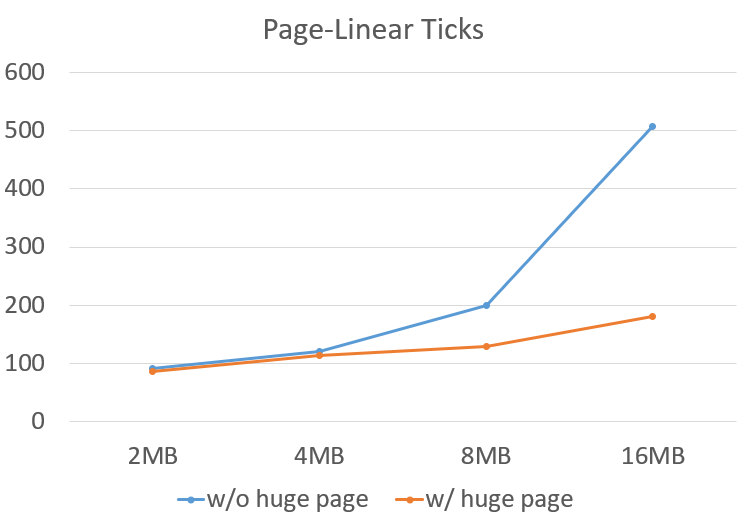
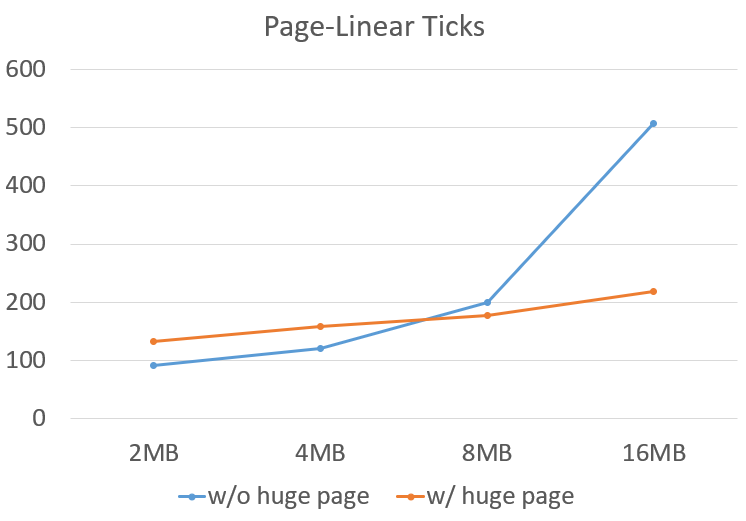
fix process_execute and vpage_info so that huge pages are lazily loaded

diff --git a/pintos/src/vm/vpage.c b/pintos/src/vm/vpage.c
@@ -83,25 +83,54 @@ vpage_info_inmem_to_swap(struct vpage_info *vpi) {
 static void
 vpage_info_lazy_to_inmem(struct vpage_info *vpi) {
     ASSERT(vpi->status == VPAGE_LAZY);
-    void *paddr;
-    if ((paddr = palloc_get_page(PAL_USER|PAL_ZERO)) == NULL) {
-        paddr = evict_page();
-    }
-    if (vpi->backend.lazy.file) {
-        lock_acquire(&filesys_lock);
-        file_read_at(vpi->backend.lazy.file, paddr, vpi->backend.lazy.length, vpi->backend.lazy.offset);
-        memset((char *)paddr + vpi->backend.lazy.length, 0, PGSIZE - vpi->backend.lazy.length);
-        file_close(vpi->backend.lazy.file);
-        lock_release(&filesys_lock);
+    bool huge;
+    huge = vpi->backend.lazy.huge;
+    if (!huge) {
+        void *paddr;
+        if ((paddr = palloc_get_page(PAL_USER|PAL_ZERO)) == NULL) {
+            paddr = evict_page();
+        }
+        if (vpi->backend.lazy.file) {
+            lock_acquire(&filesys_lock);
+            file_read_at(vpi->backend.lazy.file, paddr, vpi->backend.lazy.length, vpi->backend.lazy.offset);
+            memset((char *)paddr + vpi->backend.lazy.length, 0, PGSIZE - vpi->backend.lazy.length);
+            file_close(vpi->backend.lazy.file);
+            lock_release(&filesys_lock);
+        }
+        else {
+            memset(paddr, 0, PGSIZE);
+        }
+        vpi->backend.inmem.paddr = paddr;
+        vpi->backend.inmem.pagedir = thread_current()->pagedir;
+        vpi->backend.inmem.last_use = timer_ticks();
+        vpi->backend.inmem.huge = false;
+        vpi->status = VPAGE_INMEM;
+        pagedir_set_page(vpi->backend.inmem.pagedir, vpi->uaddr, paddr, vpi->writable, false);
     }
     else {
-        memset(paddr, 0, PGSIZE);
+      /* Add the page to the process's address space. */
+        void *paddr;
+        if ((paddr = palloc_get_multiple_aligned (PAL_USER, HPGSIZE/PGSIZE)) == NULL) {
+            PANIC("Could not lazy-load huge page");
+        }
+        if (vpi->backend.lazy.file) {
+            lock_acquire(&filesys_lock);
+            file_read_at(vpi->backend.lazy.file, paddr, vpi->backend.lazy.length, vpi->backend.lazy.offset);
+            memset((char *)paddr + vpi->backend.lazy.length, 0, HPGSIZE - vpi->backend.lazy.length);
+            file_close(vpi->backend.lazy.file);
+            lock_release(&filesys_lock);
+        }
+        else {
+            memset(paddr, 0, HPGSIZE);
+        }
+        vpi->backend.inmem.paddr = paddr;
+        vpi->backend.inmem.pagedir = thread_current()->pagedir;
+        vpi->backend.inmem.last_use = timer_ticks();
+        vpi->backend.inmem.huge = true;
+        vpi->status = VPAGE_INMEM;
+        pagedir_set_page(vpi->backend.inmem.pagedir, vpi->uaddr, paddr, vpi->writable, true);
     }
-    vpi->backend.inmem.paddr = paddr;
-    vpi->backend.inmem.pagedir = thread_current()->pagedir;
-    vpi->backend.inmem.last_use = timer_ticks();
-    vpi->status = VPAGE_INMEM;
-    pagedir_set_page(vpi->backend.inmem.pagedir, vpi->uaddr, paddr, vpi->writable, false);
+    
 }
 
 static void
@@ -123,10 +152,19 @@ vpage_info_swap_to_inmem(struct vpage_info *vpi) {
 void vpage_info_release_inner(struct vpage_info *vpi) {
     switch (vpi->status) {
         case VPAGE_INMEM: {
-            pagedir_clear_page(vpi->backend.inmem.pagedir, vpi->uaddr, false);
-            palloc_free_page(vpi->backend.inmem.paddr);
-            hash_delete(&vpage_info_map, &vpi->elem);
-            free(vpi);
+            if (!vpi->backend.inmem.huge) {
+                pagedir_clear_page(vpi->backend.inmem.pagedir, vpi->uaddr, false);
+                palloc_free_page(vpi->backend.inmem.paddr);
+                hash_delete(&vpage_info_map, &vpi->elem);
+                free(vpi);
+            }
+            else {
+                pagedir_clear_page(vpi->backend.inmem.pagedir, vpi->uaddr, true);
+                palloc_free_multiple(vpi->backend.inmem.paddr, HPGSIZE/PGSIZE);
+                hash_delete(&vpage_info_map, &vpi->elem);
+                free(vpi);
+            }
+            
             break;
         }
         case VPAGE_LAZY: {
@@ -156,7 +194,7 @@ void vpage_init() {
 }
 
 struct vpage_info *
-vpage_info_lazy_allocate(void *uaddr, struct file *file, off_t offset, size_t length, pid_t pid, bool writable) {
+vpage_info_lazy_allocate(void *uaddr, struct file *file, off_t offset, size_t length, pid_t pid, bool writable, bool huge) {
     struct vpage_info *new = malloc(sizeof(struct vpage_info)), *old;
     struct file *file_copy;
 
@@ -179,6 +217,7 @@ vpage_info_lazy_allocate(void *uaddr, struct file *file, off_t offset, size_t le
     new->backend.lazy.file = file_copy;
     new->backend.lazy.offset = offset;
     new->backend.lazy.length = length;
+    new->backend.lazy.huge = huge;
     new->pid = pid;
     new->writable = writable;
     lock_acquire(&vm_lock);

diff --git a/pintos/src/userprog/process.c b/pintos/src/userprog/process.c
@@ -815,26 +815,10 @@ load_segment (struct process_info *pi, struct file *file, off_t ofs, uint8_t *up
       size_t hpage_read_bytes = read_bytes < HPGSIZE ? read_bytes : HPGSIZE;
       size_t hpage_zero_bytes = HPGSIZE - hpage_read_bytes;
     if (read_bytes + zero_bytes >= HPGSIZE && ((uint32_t) pg_round_down(upage) & HPGMASK) == 0) {
-      // Huge page: just allocate 4 pages and read the file, without lazy loading
-      uint8_t *kpage = palloc_get_multiple_aligned (PAL_USER, HPGSIZE/PGSIZE);
-      if (kpage == NULL) {
-        return false;
+      if (!vpage_info_lazy_allocate(upage, file, ofs, hpage_read_bytes, pi->pid, writable, true)) 
+      {
+        return false; 
       }
-        
-      /* Load this page. */
-      if (file_read (file, kpage, page_read_bytes) != (int) page_read_bytes)
-        {
-          palloc_free_multiple (kpage, HPGSIZE/PGSIZE);
-          return false; 
-        }
-      memset (kpage + page_read_bytes, 0, page_zero_bytes);
-
-      /* Add the page to the process's address space. */
-      if (!install_hpage (upage, kpage, writable)) 
-        {
-          palloc_free_multiple (kpage, HPGSIZE/PGSIZE);
-          return false; 
-        }
 
       /* Advance. */
       read_bytes -= hpage_read_bytes;
@@ -842,9 +826,7 @@ load_segment (struct process_info *pi, struct file *file, off_t ofs, uint8_t *up
       upage += HPGSIZE;
     }
     else {
-      // Regular page: do lazy loading
-      /* Add the page to the process's address space. */
-      if (!vpage_info_lazy_allocate(upage, file, ofs, page_read_bytes, pi->pid, writable)) 
+      if (!vpage_info_lazy_allocate(upage, file, ofs, page_read_bytes, pi->pid, writable, false)) 
       {
         return false; 
       }
@@ -920,7 +902,7 @@ setup_stack (struct process_info *pi, void **esp)
     goto fail;
   }
   for (int i = 0; i < STACK_GROWTH_PAGES; i++) {
-    if (!(vpi_growth[i] = vpage_info_lazy_allocate(upage - PGSIZE*(i+1), NULL, 0, 0, pid, true))) {
+    if (!(vpi_growth[i] = vpage_info_lazy_allocate(upage - PGSIZE*(i+1), NULL, 0, 0, pid, true, false))) {
       vpage_info_release(vpi_stack);
       for (int j = 0; j < i; j++) {
         vpage_info_release(vpi_growth[j]);

diff --git a/pintos/src/vm/vpage.h b/pintos/src/vm/vpage.h
@@ -20,12 +20,14 @@ struct info_lazy {
     struct file *file;
     off_t offset;
     size_t length;
+    bool huge;
 };
 
 struct info_inmem {
     void *paddr;
     uint32_t *pagedir;
     int64_t last_use;
+    bool huge;
 };
 
 struct info_swap {
@@ -47,7 +49,7 @@ struct vpage_info {
     struct hash_elem elem;
 };
 
-struct vpage_info *vpage_info_lazy_allocate(void *uaddr, struct file *file, off_t offset, size_t length, pid_t pid, bool writable);
+struct vpage_info *vpage_info_lazy_allocate(void *uaddr, struct file *file, off_t offset, size_t length, pid_t pid, bool writable, bool huge);
 struct vpage_info *vpage_info_inmem_allocate(void *uaddr, void *paddr, pid_t pid, bool writable);
 struct vpage_info *vpage_info_swapped_allocate(void *uaddr, uint32_t swap_idx, pid_t pid, bool writable);
 void vpage_info_release(struct vpage_info *vpi);

diff --git a/pintos/src/userprog/syscall.c b/pintos/src/userprog/syscall.c
@@ -152,7 +152,7 @@ static struct mmap_entry *mmap_entry_append(struct file *file, void *upage) {
     struct file *file_copy = file_reopen(file);
     // initially, set permission to read-only
     if (!file_copy || 
-      !vpage_info_lazy_allocate((char *)upage + PGSIZE*i, file_copy, cur_offset, cur_length, thread_current()->process_info->pid, false)) 
+      !vpage_info_lazy_allocate((char *)upage + PGSIZE*i, file_copy, cur_offset, cur_length, thread_current()->process_info->pid, false, false)) 
       {
         free(me);
         for (int j = 0; j < i; j++) {

diff --git a/pintos/src/vm/vm.c b/pintos/src/vm/vm.c
@@ -31,7 +31,7 @@ void vm_handle_user_fault(void *uaddr, struct intr_frame *f) {
                 continue;
             }
             else {
-                if (!(new_vpis[i] = vpage_info_lazy_allocate(cur_page, NULL, 0, 0, pid, true))) {
+                if (!(new_vpis[i] = vpage_info_lazy_allocate(cur_page, NULL, 0, 0, pid, true, false))) {
                     for (int j = 0; j < i; j++) {
                         if (new_vpis[j]) {
                             vpage_info_release(new_vpis[j]);
